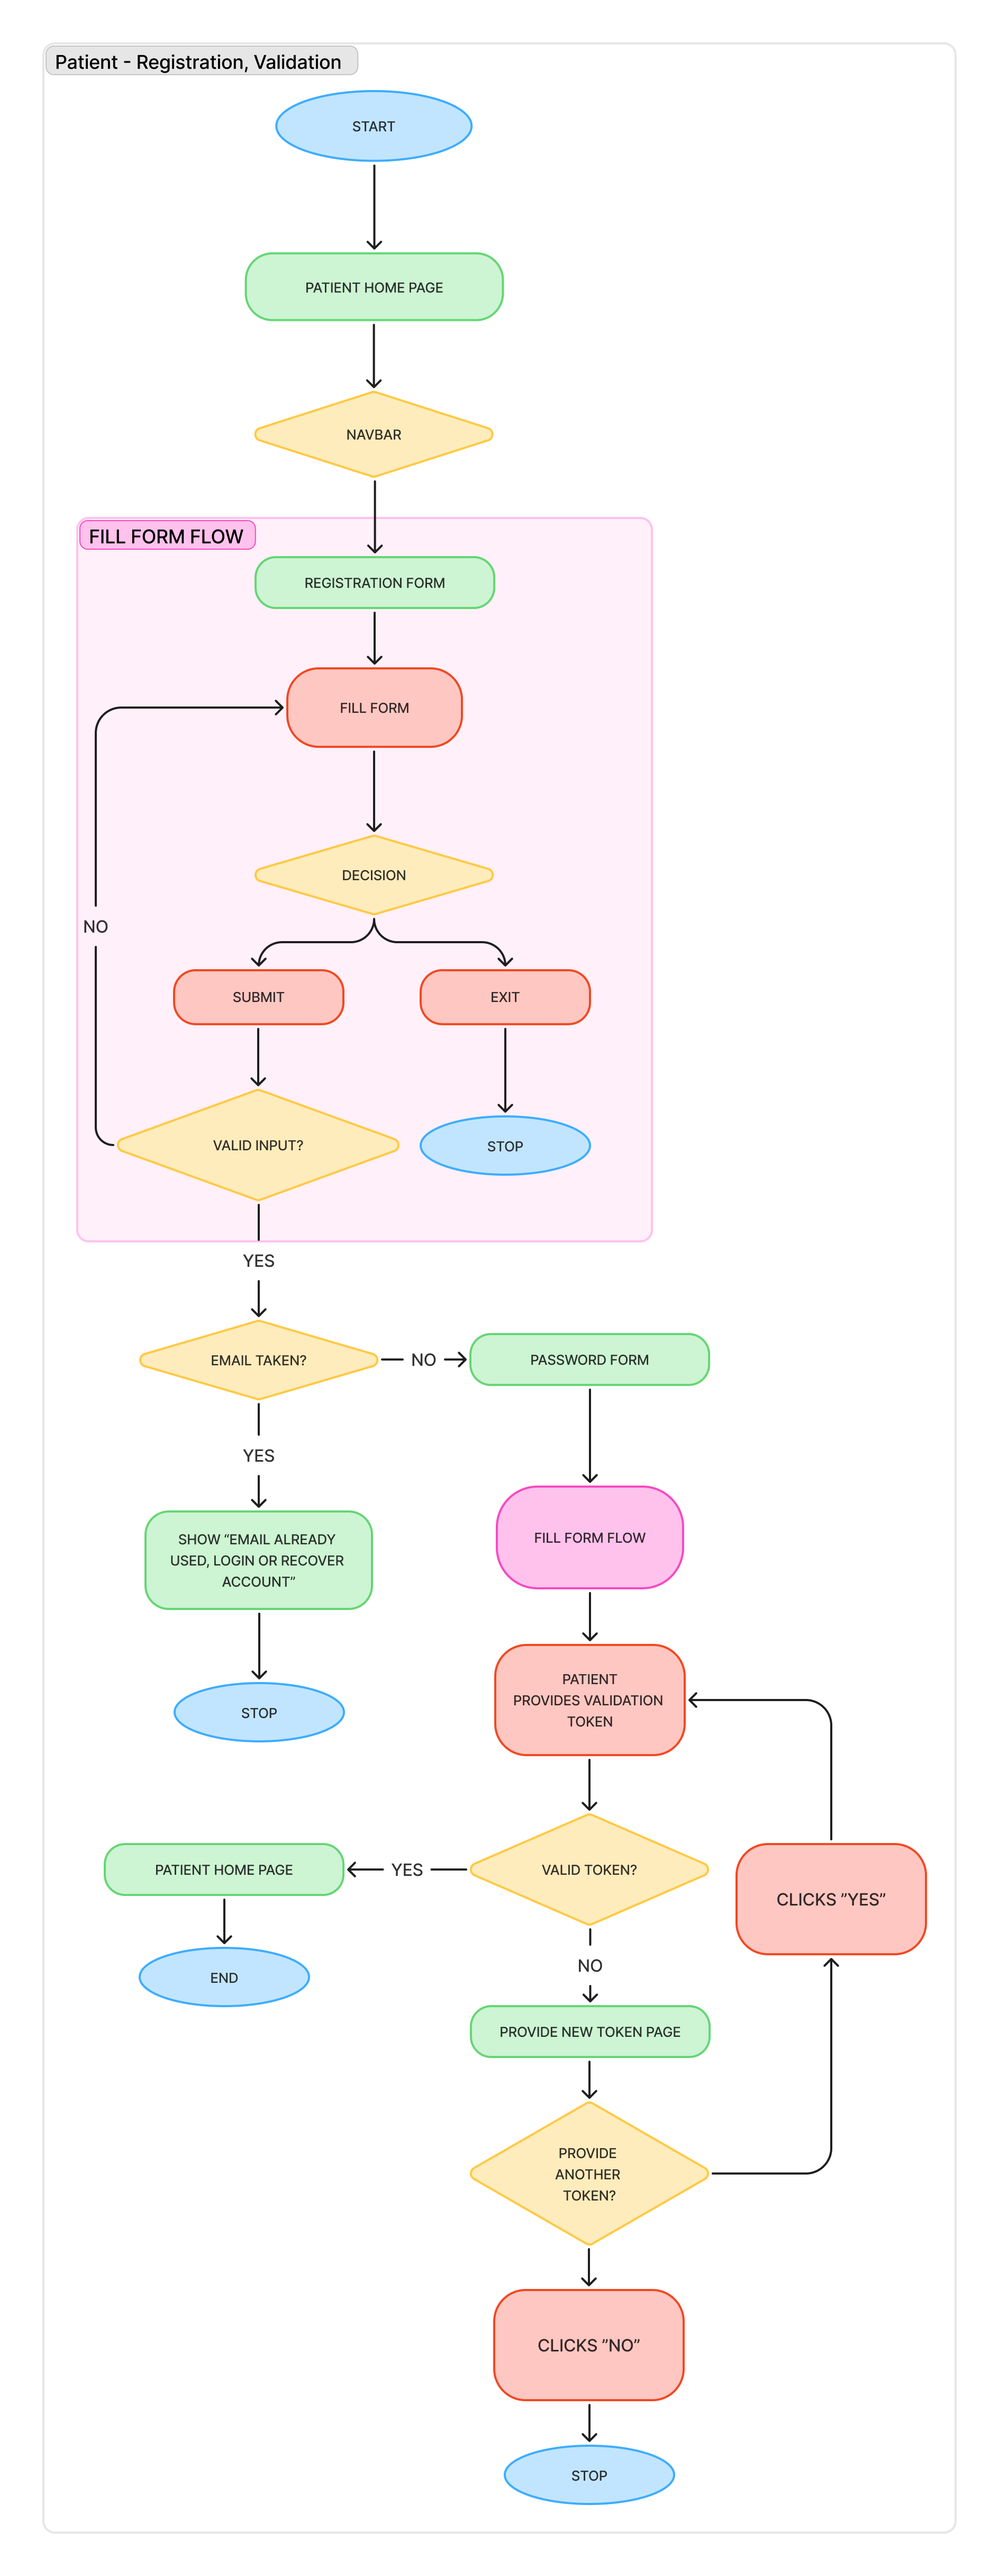
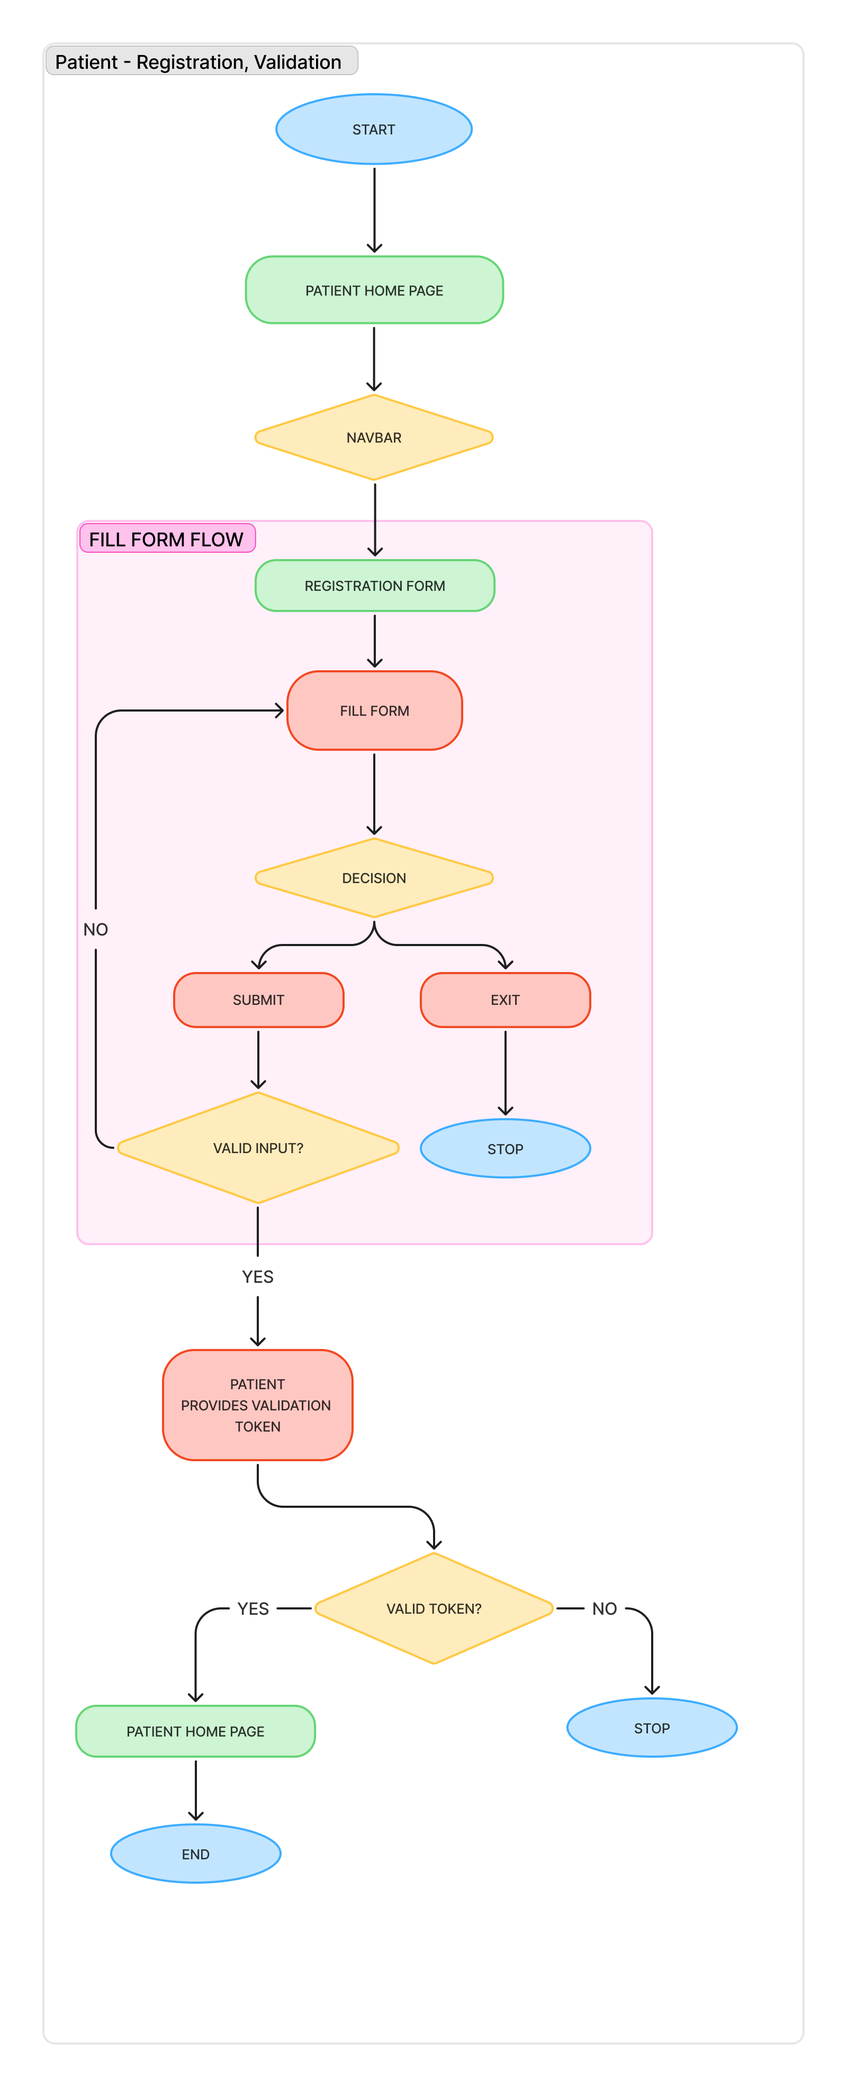
modifiche finali

Changed region(s): [[0.0312, 0.0, 0.9688, 0.9985], [0.0938, 0.8113, 0.375, 0.9049]]

diff --git a/d3_optimized/sections/02_d2-modifications.tex b/d3_optimized/sections/02_d2-modifications.tex
@@ -355,17 +355,15 @@ Adjusted the main flow so that role replacement is handled entirely within the c
 
 \begin{ucflow}
     1 & The System asks the Unregistered Patient to insert their email and personal information. \\ \hline
-    2 & The Patient fills in the required information. \\ \hline
+    2 & The Patient submits personal information together with the password. \\ \hline
     3 & The Unregistered Patient submits. \\ \hline
     4 & The System validates the input fields. \\ \hline
-    5 & The Patient submits personal information together with the password. \\ \hline
-    6 & The System checks password security (complexity and strength). \\ \hline
-    7 & The System creates a new unverified account in the Database. \\ \hline
-    8 & The System sends a verification token to the provided email address via the Mail Service. \\ \hline
-    9 & The User accesses their mailbox and clicks on the validation link. \\ \hline
-    10 & The System retrieves the validation token sent with the request. \\ \hline
-    11 & The System checks for token validity and matching records in the Database. \\ \hline
-    12 & The System marks the account as verified and active. \\ \hline
+    6 & The System creates a new unverified account in the Database. \\ \hline
+    7 & The System sends a verification token to the provided email address via the Mail Service. \\ \hline
+    8 & The User accesses their mailbox and clicks on the validation link. \\ \hline
+    9 & The System retrieves the validation token sent with the request. \\ \hline
+    10 & The System checks for token validity and matching records in the Database. \\ \hline
+    11 & The System marks the account as verified and active. \\ \hline
 \end{ucflow}
 
 
@@ -373,19 +371,19 @@ Adjusted the main flow so that role replacement is handled entirely within the c
     4a & \textbf{Duplicated fiscal code:}\newline 
          1. The System identifies a duplicated fiscal code. \newline 
          2. The Patient is prompted with an error message highlighting the invalid field. \newline 
-         3. Resume at Main Flow Step 2. \\ \hline
+         3. Use case ends. \\ \hline
 
     4b & \textbf{Email already taken:}\newline 
          1. The System finds another account already associated with the  email. \newline 
          2. The Patient is prompted with an error message suggesting to log in or reset the password. \newline 
          3. Use case ends. \\ \hline
 
-    6a & \textbf{Password security check fails:}\newline 
+    4c & \textbf{Password security check fails:}\newline 
          1. The System identifies the provided password as unsafe or too simple. \newline 
          2. The System prompts an error message with security requirements. \newline 
-         3. Resume at Main Flow Step 5. \\ \hline
+         3. Use case ends. \\ \hline
 
-    11a & \textbf{Invalid or Expired validation token:}\newline 
+    10a & \textbf{Invalid or Expired validation token:}\newline 
          1. The System identifies that the token from the email link is invalid or has expired.\newline 
          2. The Patient is prompted with an error message.\newline 
          3. Use case ends. \\ \hline
@@ -405,7 +403,7 @@ Adjusted the main flow so that role replacement is handled entirely within the c
 Changed title from "User registration and validation" to "Patient registration and validation" to reflect correct actor terminology.
 Merged password submission into the main registration data submission (password is no longer a separate step).
 Removed step 14 (automatic login and redirection) as it is a UI-level detail not relevant to the use case specification.
-In EXTENSIONS, step 11a, removed the possibility to recieve a new validation email.
+In EXTENSIONS, step 10a, removed the possibility to recieve a new validation email.
 \end{ucedits}
 
 \phantomsection
@@ -431,7 +429,7 @@ In EXTENSIONS, step 11a, removed the possibility to recieve a new validation ema
 
 \begin{ucflow}
     1 & The System filters Doctors by specialization matching the requested examination type. \\ \hline
-    2 & If a hospital is specified, the System filters Doctors assigned to that hospital. \\ \hline
+    2 & The System filters Doctors assigned to the requested hospital. \\ \hline
     3 & The System filters Doctors available in the requested day and time slot based on shift constraints. \\ \hline
     4 & The System excludes Doctors with conflicting appointments within a 30-minute window before and after the requested time. \\ \hline
     5 & If a Patient is provided, the System prioritizes Doctors that have previously visited the Patient. \\ \hline
@@ -486,7 +484,7 @@ Secondary: Database, Mail Service.} % 8: Actors
 
 
 \begin{ucflow}
-    1 & The Patient selects the desired examination and, optionally, a preferred hospital and a target future date. \\ \hline
+    1 & The Patient selects the desired examination and a preferred hospital, department and a target future date. \\ \hline
     2 & The Patient submits the search request. \\ \hline
     3 & \hl{The System verifies whether the selected hospital offers the requested examination.} \\ \hline
     4 & \textbf{Include: \hyperlink{FR12}{FR12 Automated Doctor assignment.}} The System retrieves a suitable Doctor and date and time of the appointment. \\ \hline
@@ -498,25 +496,12 @@ Secondary: Database, Mail Service.} % 8: Actors
 
 
 \begin{ucextensions}
-    2a & \textbf{Examination not available in the preferred hospital:}\newline 
-         1. The System displays an alert stating the examination is unavailable at the selected hospital. \newline 
-         2. The System automatically selects the closest hospital to the Patient's registered address that offers the selected examination. \newline 
-         3. Resume at Main Flow Step 3. \\ \hline
-
-    2b & \textbf{No preferred hospital:}\newline 
-         1. The System automatically selects the closest hospital to the Patient's registered address that offers the selected examination. \newline 
-         2. Resume at Main Flow Step 3. \\ \hline
-
-    2c & \textbf{No preferred date:}\newline 
-         1. The System automatically defaults to the current date as the search starting point. \newline 
-         2. Resume at Main Flow Step 3. \\ \hline
-
-    3a & \textbf{Hospital does not offer the requested examination:}\newline 
-         1. The System displays an error message asking the Patient to select another hospital or examination. \newline 
+    2a & \textbf{Hospital does not offer the requested examination:}\newline 
+         1. The System displays an error message asking the Patient to select another hospital, department or examination. \newline 
          2. Resume at Main Flow Step 1. \\ \hline
 
     4a & \textbf{No suitable appointment is found:}\newline 
-         1. The System displays an error message asking the Patient to select another hospital or date range. \newline 
+         1. The System displays an error message asking the Patient to select another hospital, department and date range. \newline 
          2. Resume at Main Flow Step 1. \\ \hline
 
     6a & \textbf{The Patient cancels:}\newline 
